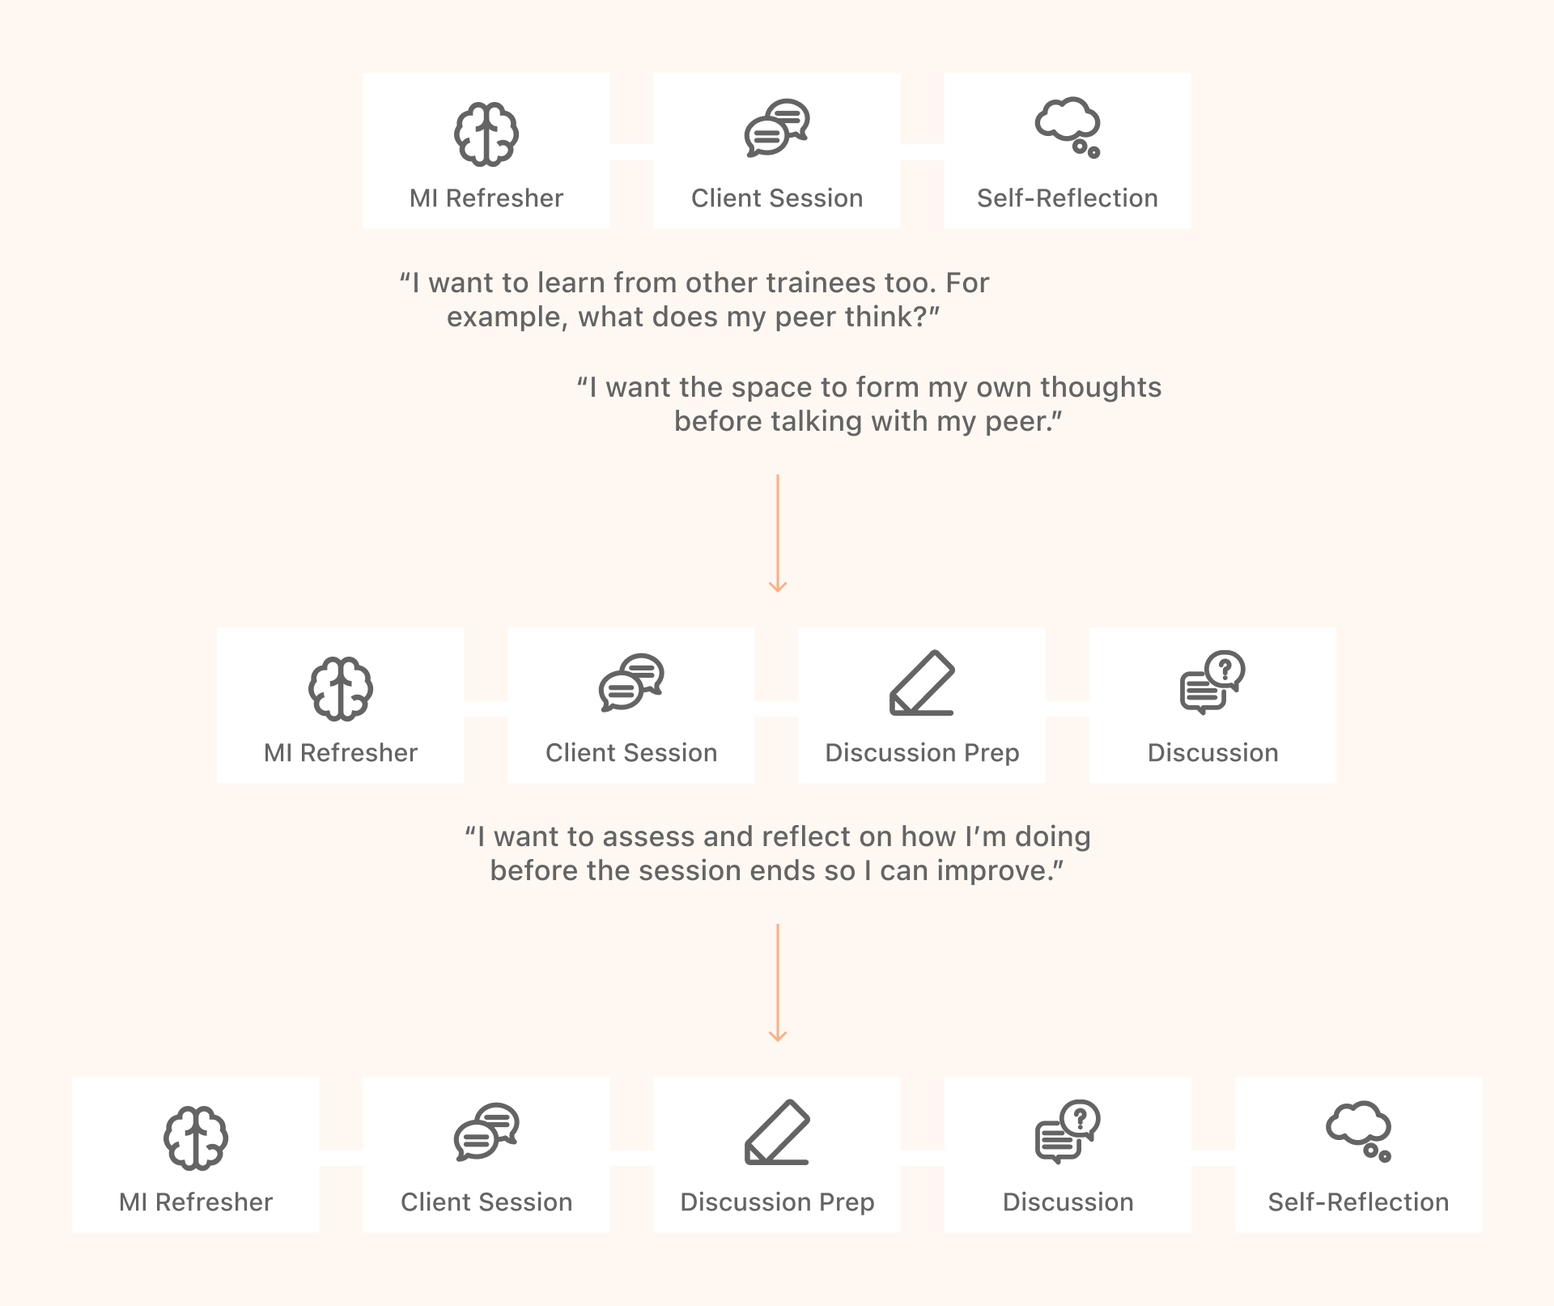
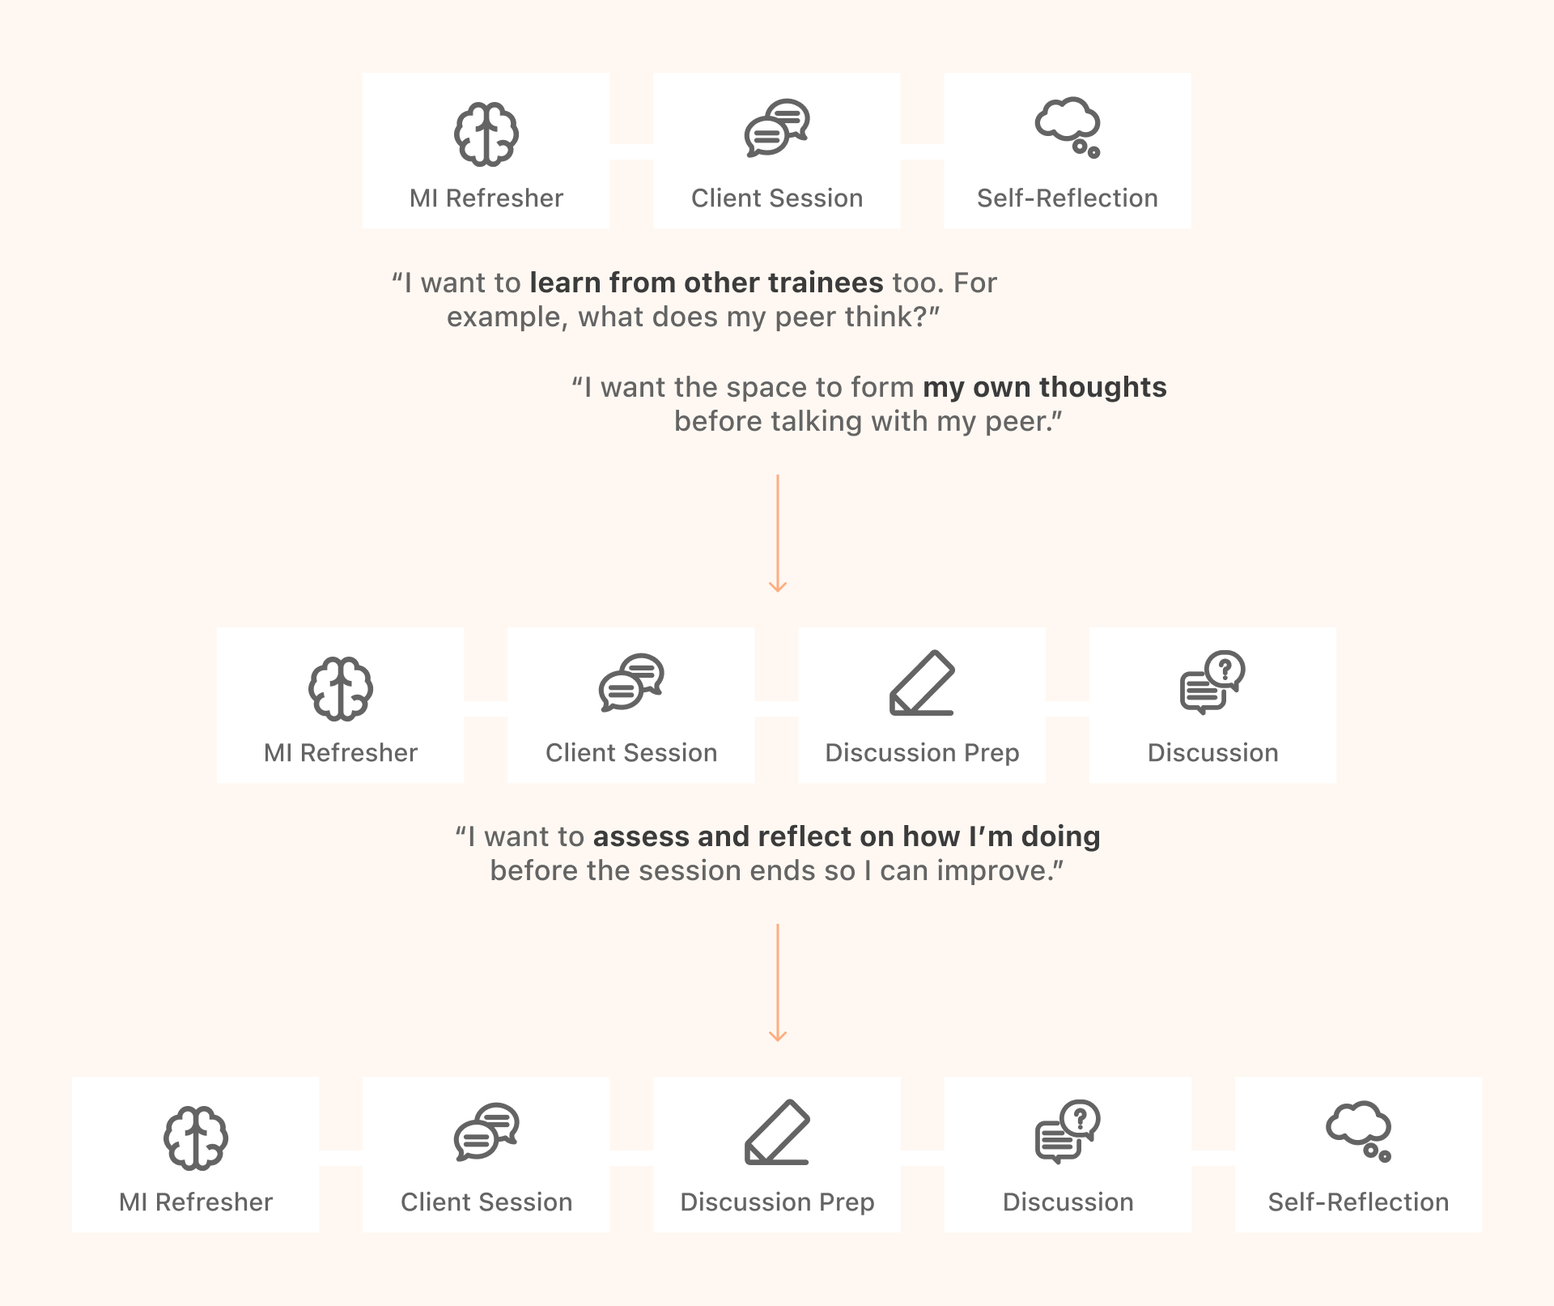
Bolded text

diff --git a/pinmi.html b/pinmi.html
@@ -179,7 +179,7 @@
         <div class="big-htext bold title" id="research">Research Phase</div>
         <p class="sub-htext remove-line">Literature Review</p>
         <p class="norm-text">
-          To kickstard the project, we reviewed roughly 15 pieces of literature
+          To kickstard the project, we reviewed roughly <span class="bold">15 pieces of literature</span>
           including research papers, interview transcripts, and textbooks on
           Motivational Interviewing and active reflection from our client. The
           literature reviews helped us gain a better understanding of the problem
@@ -189,17 +189,17 @@
 
         <p class="sub-htext remove-line">Fly on the Wall Observation</p>
         <p class="norm-text">
-          I then attended two Highmark Health Motivational Interviewing training
-          sessions for extended care nurses. These training sessions were held online
+          I then attended <span class="bold">two Highmark Health Motivational Interviewing training
+          sessions</span> for extended care nurses. These training sessions were held online
           on Zoom, where the main session consisted of an MI trainer giving a lecture
           on a topic and breakout rooms were used for nurses to practice a skill.
-          I observed the sessions and listed down some findings:
+          I <span class="bold">observed the sessions and listed down some findings</span>:
         </p>
         <img class="max-100width margin-bottom" src="Assets/images/pinmi/pinmi-observation.png" alt="some observation findings">
 
         <p class="sub-htext remove-line">Interviews</p>
         <p class="norm-text">
-          We then interviewed 6 MI trainers and 6 MI trainees. All of the MI
+          We then interviewed <span class="bold">6 MI trainers and 6 MI trainees</span>. All of the MI
           trainers are members of the
           <a href="https://motivationalinterviewing.org" target="_blank" class="underline">Motivational Interviewing Network of
           Trainers (MINT)</a>,
@@ -214,7 +214,7 @@
         <p class="norm-text">
           We then synthesized our findings from these research methods by
           pasting each insight into a sticky note on a Miro board. We then
-          grouped these together and labeled them repeatedly until we derived
+          <span class="bold">grouped these together and labeled them repeatedly</span> until we derived
           four main groups.
         </p>
 
@@ -236,7 +236,7 @@
                 <div class="flip-card-back">
                   <p class="norm-text vertical-center left-text">
                     Regular practice is necessary for Motivational Interviewing skill improvement because
-                    our natural intuition is not enough and needs to be trained.
+                    <span class="bold">our natural intuition is not enough</span> and needs to be trained.
                     Personal reflection through self-evaluation on one’s performance
                     enhances this practice by creating space for deeper learning and
                     skill development.
@@ -255,9 +255,9 @@
                 </div>
                 <div class="flip-card-back">
                   <p class="norm-text vertical-center left-text">
-                    In order to stay on track, it is crucial to repeat the cycle of
-                    messing up then getting corrective feedback as well as doing well
-                    then getting affirmative feedback.
+                    In order to stay on track, it is crucial to repeat the <span class="bold">cycle of
+                    messing up then getting corrective feedback</span> and <span class="bold">doing well
+                    then getting affirmative feedback</span>.
                   </p>
                 </div>
               </div>
@@ -276,8 +276,8 @@
                 </div>
                 <div class="flip-card-back">
                   <p class="norm-text vertical-center left-text">
-                    Motivational Interviewing is not a “one size fits all” type of
-                    skill building; an individual’s learning style must also be a key
+                    Motivational Interviewing is <span class="bold">not a “one size fits all” type of
+                    skill-building</span>; an individual’s learning style must also be a key
                     consideration when presenting the foundational theory of Motivational Interviewing.
                   </p>
                 </div>
@@ -297,7 +297,7 @@
                     Motivational Interviewing is a collaborative conversation to
                     strengthen a person’s own motivation for and commitment to change.
                     It is much more than the use of a set of technical interventions;
-                    it's about following and living by the core principles of Motivational Interviewing.
+                    it's about <span class="bold">following and living by the core principles</span> of Motivational Interviewing.
                   </p>
                 </div>
               </div>
@@ -309,7 +309,7 @@
         <p class="sub-htext remove-line">Personas</p>
         <p class="norm-text">
           After reviewing our research, findings, and insights, we came up with
-          four distinct persona groups.
+          <span class="bold">four distinct persona groups</span>.
         </p>
         <div id="pinmi-persona-carousel" class="carousel slide margin-bottom" data-ride="carousel">
           <!-- Indicators -->
@@ -363,8 +363,8 @@
 
           <div class="big-htext bold title focus-text" id="scope">Scope</div>
           <p class="smaller-htext focus-text">
-            How might we provide low intervention practice, feedback, and self-reflection
-            opportunities for Motivational Interviewing trainees
+            How might we provide low intervention <span class="bold">practice, feedback, and self-reflection
+            opportunities</span> for Motivational Interviewing trainees
             to build core MI skills?
           </p>
 
@@ -381,7 +381,7 @@
         <p class="sub-htext remove-line">Four-directional approach</p>
         <p class="norm-text margin-bottom">
           Based on our insights and feedback from our client, our team gravitated
-          toward four potential directions to explore.
+          toward <span class="bold">four potential directions</span> to explore.
         </p>
 
         <div class="col-xs-6 col-md-3 center-text norm-text margin-bottom">
@@ -416,7 +416,7 @@
         <p class="norm-text">
           Each category came from a list of ideas that we grouped together. By
           grouping these items together, it became significantly easier for us to
-          narrow down and combine ideas later on.
+          <span class="bold">narrow down and combine ideas</span> later on.
         </p>
         <img class="max-100width margin-bottom img-zoomin" src="Assets/images/pinmi/pinmi-ideas.png" alt="Sticky notes of ideas" data-toggle="modal" data-target="#pinmiIdeasModal">
 
@@ -435,7 +435,7 @@
         <p class="sub-htext remove-line">Storyboarding</p>
         <p class="norm-text">
           For each group, we selected 2-3 ideas we wanted to further explore.
-          We used each group as a basis for a How Might We question and created
+          We used each group as a basis for a <span class="bold">How Might We question</span> and created
           storyboards surrounding each. These are some of the storyboards I created:
         </p>
 
@@ -478,23 +478,23 @@
 
         <p class="sub-htext remove-line">Speed Dating Interviews</p>
         <p class="norm-text">
-          In our speed dating sessions, we presented each storyboard was to
-          eight healthcare professionals who have been exposed to MI training.
-          We synthesized each session by consolidating notes and labeling them into
-          yays, nays, and insights.
+          In our speed dating sessions, we presented each storyboard to
+          <span class="bold">8 healthcare professionals</span> who have been exposed to MI training.
+          We synthesized each session by <span class="bold">consolidating notes and labeling them into
+          yays, nays, and insights</span>.
         </p>
         <img class="max-100width margin-bottom" src="Assets/images/pinmi/pinmi-speeddating.png" alt="speed dating notes">
 
         <p class="sub-htext remove-line">Final Persona</p>
         <p class="norm-text">
-          Based on the new findings, we felt the need to bring to light a new persona
-          that captured our feedback from the speed dating session.
+          Based on the new findings, we felt the need to bring to light a <span class="bold">new persona</span>
+          that captured our <span class="bold">feedback from the speed dating sessions</span>.
         </p>
         <img class="max-100width margin-bottom" src="Assets/images/pinmi/pinmi-finalpersona.png" alt="Final Persona (Nancy)">
 
         <p class="sub-htext remove-line">Bundling notes</p>
         <p class="norm-text">
-          We then revisited the ideas and bundled together four ideas based on the yays, nays, and
+          We then revisited the ideas and <span class="bold">bundled together four ideas</span> based on the yays, nays, and
           insights from the speed dating session. We then decided on one direction
           listed below.
         </p>
@@ -514,15 +514,15 @@
 
         <p class="sub-htext remove-line">Reality check</p>
         <p class="norm-text">
-          Our initial idea involved having a simulated AI agent act as a patient
+          Our initial idea involved having a <span class="bold">simulated AI agent act as a patient</span>
           while a trainee practices using MI and the conversation is recorded.
           Through this, the trainee can continue talking with the same patient
-          and build a long-term relationship. <br><br>
+          and build a <span class="bold">long-term relationship</span>. <br><br>
 
           However, after discussing this
-          with our client, we realized that the technical capability is not yet
-          here. We then switched gears and decided to pair up a group of trainees,
-          with one trainee acting as the patient and the other as a practitioner.
+          with our client, we realized that the <span class="bold">technical capability is not yet
+          here</span>. We then switched gears and decided to <span class="bold">pair up a group of trainees,
+          with one trainee acting as the patient and the other as a practitioner</span>.
         </p>
 
 
@@ -538,7 +538,7 @@
         <p class="sub-htext remove-line">Sketching</p>
         <p class="norm-text">
           To construct low fidelity wireframes, we first began by individually
-          sketching prototype ideas. We sketched four designs in parallel on
+          sketching prototype ideas. We sketched <span class="bold">four designs in parallel</span> on
           paper; two of them are shown below.
         </p>
         <img class="max-100width margin-bottom" src="Assets/images/pinmi/pinmi-sketches.png" alt="2 initial sketches">
@@ -546,8 +546,8 @@
         <p class="sub-htext remove-line">Low-fidelity prototyping</p>
         <p class="norm-text">
           We then discussed and combined ideas as necessary. Because our
-          solution will be used at work, we envisioned them to be used on a
-          larger screen (like a desktop or laptop) on a web browser.
+          solution will be <span class="bold">used at work</span>, we envisioned them to be used on a
+          <span class="bold">larger screen</span> (like a desktop or laptop) on a web browser.
         </p>
 
         <div id="pinmi-lofi-carousel" class="carousel slide margin-bottom" data-ride="carousel">
@@ -587,12 +587,12 @@
 
         </div>
 
-        <p class="sub-htext remove-line">Iterating on the User Journey</p>
+        <p class="sub-htext remove-line">User Testing Outcomes</p>
         <p class="norm-text">
-          Across 12 additional user testings for our low fidelity and mid fidelity
-          prototypes, we iterated on the user journey. In particular, we added and
-          modified certain steps in the user journey based on feedback and user
-          sentiments.
+          We had <span class="bold">20 user testing sessions</span>
+          in total: 4 for low fidelity, 8 for mid-fidelity, and 8 for hi-fidelity.
+          Between these, we <span class="bold"> added and modified certain steps
+          in the user journey</span> based on feedback and user sentiments.
         </p>
         <img class="max-100width margin-bottom" src="Assets/images/pinmi/pinmi-userjourney.png" alt="User journey iterations">
 
@@ -600,11 +600,11 @@
         <p class="norm-text">
           The MI Refresher should do as it's name: trainees can get refreshed or
           remember their previous MI training in one of the core skills through
-          this MI Refresher. This should help prime the user to focus on one core
-          MI skill in the practice session. <br><br>
+          this MI Refresher. This should help <span class="bold">prime the user to focus on one core
+          MI skill in the practice session</span>. <br><br>
 
-          During testing, we found that having a scenario-based question created
-          confusion because there was another scenario in the patient session.
+          During testing, we found that having a <span class="bold">scenario-based question created
+          confusion</span> because the practice session also uses a scenario.
         </p>
         <div id="pinmi-refresher-carousel" class="carousel slide margin-bottom" data-ride="carousel">
           <!-- Indicators -->
@@ -641,12 +641,12 @@
         <p class="sub-htext remove-line">The second step: Patient Session</p>
         <p class="norm-text">
           In the patient session, trainees either act as a patient or a practioner,
-          and their peer will act as the oher role. During the patient session,
-          users pin to create time marks of effective or difficult instances
+          and their peer will act as the other role. During the patient session,
+          users pin to create <span class="bold">time marks of effective or difficult instances</span>
           for using MI to review and discuss with their peer.<br><br>
 
-          During testing, we found that many users had trouble figuring out
-          when to pin — they did not receive adequate instruction on pinning.
+          During testing, we found that <span class="bold">many users had trouble figuring out
+          when to pin</span> — they did not receive adequate instruction on pinning.
         </p>
         <div id="pinmi-pin-carousel" class="carousel slide margin-bottom" data-ride="carousel">
           <!-- Indicators -->
@@ -682,13 +682,13 @@
 
         <p class="sub-htext remove-line">The third and fourth step: Discussion Prep and Discussion</p>
         <p class="norm-text">
-          To maximize the synchronous platform, Pin-MI allows trainees to discuss
-          pins in real time. To help facilitate this discussion, users look at notes
+          To maximize the synchronous platform, Pin-MI allows trainees to <span class="bold">discuss
+          pins in real time</span>. To help facilitate this discussion, users look at notes
           that they prepared on the pins.<br><br>
 
-          Testing revealed that navigation of pins was difficult. We also needed
-          to balance the amount of information being presented to prevent cognitive
-          overload.
+          Testing revealed that <span class="bold">navigation of pins was difficult</span>. We also needed
+          to balance the amount of information being presented to prevent <span class="bold">cognitive
+          overload</span>.
         </p>
         <div id="pinmi-dprep-carousel" class="carousel slide margin-bottom" data-ride="carousel">
           <!-- Indicators -->
@@ -724,8 +724,8 @@
 
         <p class="sub-htext remove-line">Between the third and fourth step: Connectors</p>
         <p class="norm-text">
-          User testing showed that users had trouble jumping into the discussion
-          sessions. Because of this, we added prompts to initiate conversation
+          User testing showed that <span class="bold">users had trouble jumping into the discussion
+          sessions</span>. Because of this, we added prompts to initiate conversation
           and break a bit of the ice during discussion.
         </p>
         <div id="pinmi-bridge-carousel" class="carousel slide margin-bottom" data-ride="carousel">
@@ -765,8 +765,8 @@
           After saying goodbye to their peer, it's time for the trainee to reflect
           on their own or their peer's performance.<br><br>
 
-          Self-reflection requires a friendlier and more open tone. Emphasis needed
-          to be placed on items with multiple responses.
+          Self-reflection requires a <span class="bold">friendlier and more open tone</span>. Emphasis needed
+          to be placed on items with <span class="bold">multiple responses</span>.
         </p>
         <div id="pinmi-reflection-carousel" class="carousel slide margin-bottom" data-ride="carousel">
           <!-- Indicators -->
@@ -800,6 +800,19 @@
 
         </div>
 
+        <p class="sub-htext remove-line">A note on our user testing</p>
+        <p class="norm-text">
+          In total, we conducted over 20 online user testing sessions. In these sessions,
+          we asked our users to <span class="bold">think aloud and instruct us on how they want to
+          proceed on the platform</span>. Because it was difficult to have two users
+          test our platform at the same time, <span class="bold">I acted as a patient</span> to simulate
+          the roleplay practice sessions and discussions. <br><br>
+
+          For our final user testing, we <span class="bold">validated the usability and potential
+          effectiveness of the prototype by having two users test our prototype</span>,
+          with one user acting as a patient and the other as a practitioner.
+        </p>
+
       </div>
     </div>
 
@@ -813,16 +826,16 @@
           </div>
           <p class="norm-text margin-bottom">
             Pin-MI is a web platform for Motivational Interviewing skills building
-            within an organization. Our vision is for Highmark Health to implement
-            this platform for their healthcare professionals. Because of this, we
-            did not focus on creating external incentives to drive the usage of the platform.
+            <span class="bold">within an organization</span>. Our vision is for Highmark Health to implement
+            this platform for their healthcare professionals. Because of this, <span class="bold">we
+            did not focus on creating external incentives to drive the usage of the platform</span>.
           </p>
 
             <div class="small-htext semibold">
               Refresh your memory on an MI skill
             </div>
             <p class="norm-text">
-              Users get one MI skill to refresh on. In this case, the trainee
+              Users get <span class="bold">one MI skill</span> to refresh on. In this case, the trainee
               is refreshing their memory on Open-Ended Questions. Users can review
               their answers with sample responses then watch a short video on the skill.
             </p>
@@ -836,10 +849,10 @@
             </div>
             <p class="norm-text">
               Trainees are given brief instructions on their role, their
-              patient's information, and how to pin. In the 15-minute session,
-              trainees are given reminders to pin. Trainees create time marks
+              patient's information, and how to pin. In the <span class="bold">15-minute session</span>,
+              trainees are given reminders to pin. Trainees create <span class="bold">time marks
               of effective or difficult instances for using MI to review and
-              discuss with their peer.
+              discuss with their peer</span>.
             </p>
 
             <video class="max-100width margin-bottom" controls preload="metadata">
@@ -850,7 +863,7 @@
               Prep for the peer discussion
             </div>
             <p class="norm-text">
-              Trainees have their own time to prep for the discussion so they have
+              Trainees have their <span class="bold">own time to prep for the discussion</span> so they have
               the space to form their own thoughts first. In the discussion prep,
               trainees can add more pins, play the recording, view the transcript,
               and add personal notes and notes to be shared with their peer.
@@ -867,9 +880,9 @@
             </div>
             <p class="norm-text">
               Trainees meet their peer once again to discuss the practice session.
-              They can see all that they saw in the discussion prep, as well as notes
-              that their peer wants to share. For each pin, they can also write a
-              collective takeaway from the discussion.
+              They can see all that they saw in the discussion prep, as well as
+              <span class="bold">notes that their peer wants to share</span>.
+              For each pin, they can also write a collective takeaway from the discussion.
             </p>
 
             <video class="max-100width margin-bottom" controls preload="metadata">
@@ -880,7 +893,7 @@
               Self-reflect on the session and discussion
             </div>
             <p class="norm-text">
-              To internalize takeaways and promote long term change, trainees
+              To <span class="bold">internalize takeaways and promote long term change</span>, trainees
               get to think about their experience and look for ways to bring what
               they learned into their practice.
             </p>
